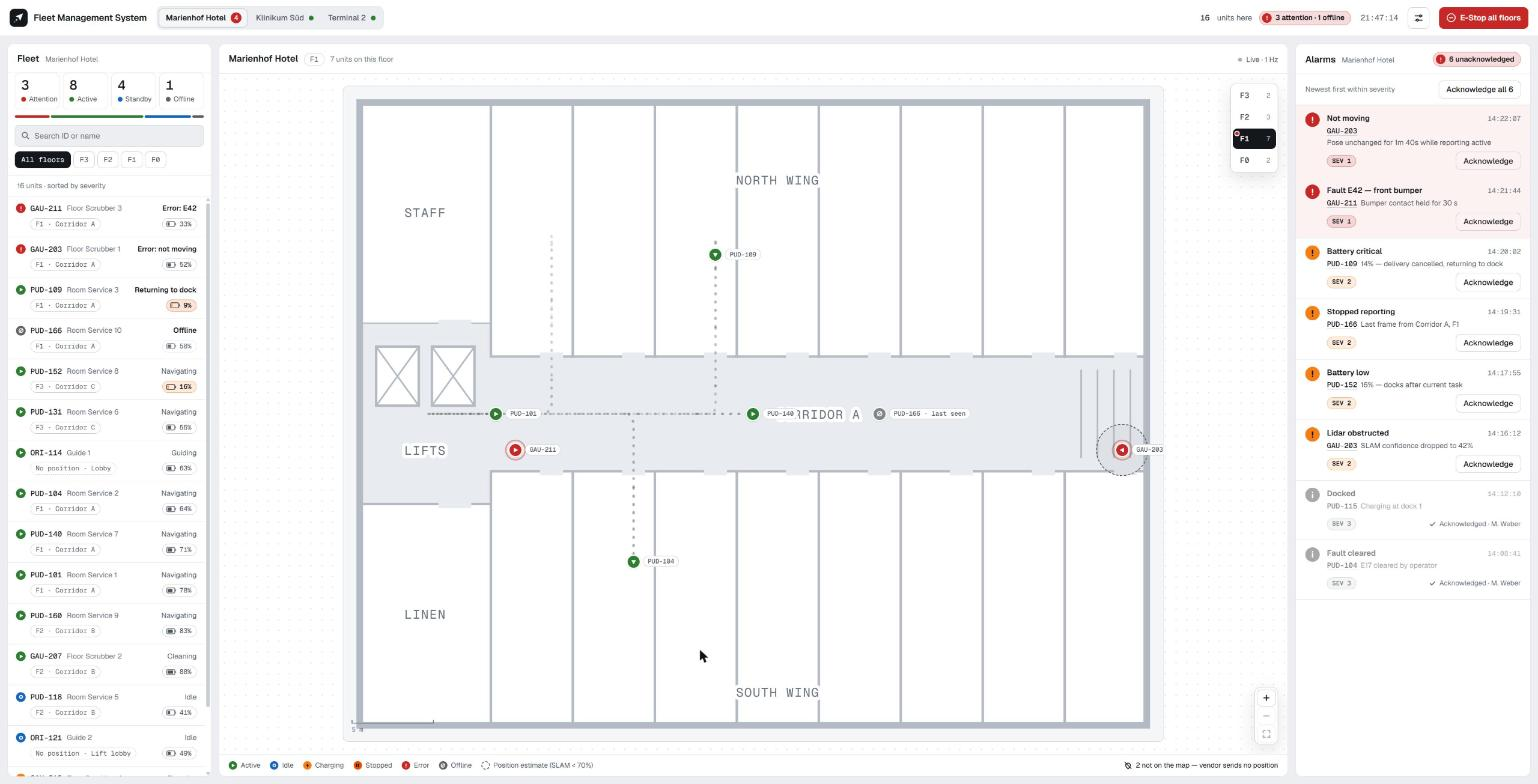
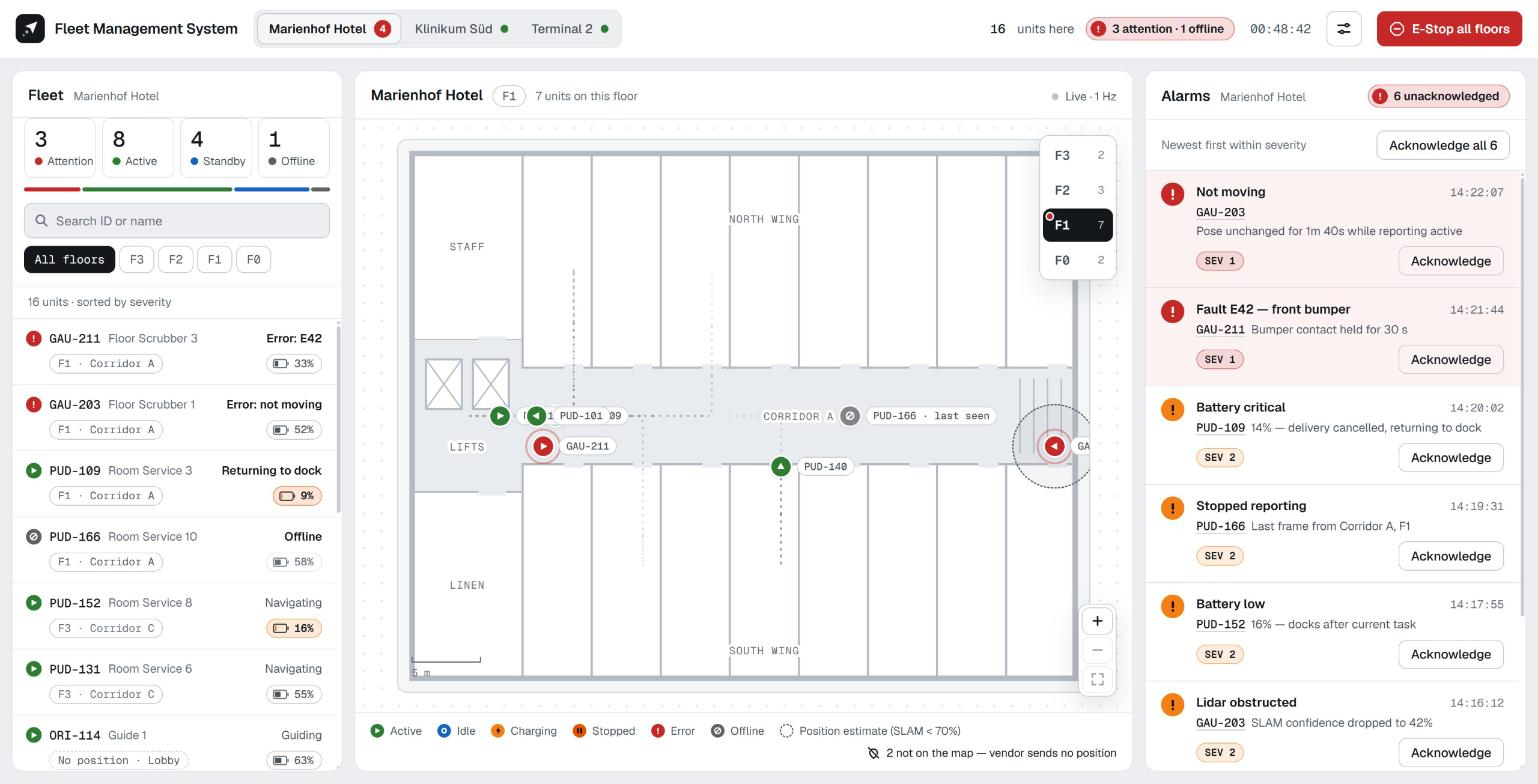
docs: record the scope decisions in the README
What was built and why, what was faked and why that was the right trade, and what
production would need. Keeps the hosted demo out of search results.

diff --git a/frontend/index.html b/frontend/index.html
@@ -4,6 +4,8 @@
     <meta charset="utf-8" />
     <meta name="viewport" content="width=device-width, initial-scale=1" />
     <meta name="color-scheme" content="dark light" />
+    <!-- The hosted demo is a portfolio link, not a page anyone should reach from a search. -->
+    <meta name="robots" content="noindex, nofollow" />
     <meta
       name="description"
       content="Real-time supervision of an autonomous robot fleet across multi-storey indoor facilities."

diff --git a/README.md b/README.md
@@ -113,6 +113,54 @@ pnpm run test:e2e   # Playwright; requires pnpm run build first
 
 100 frontend unit tests, 45 backend tests, 13 end-to-end tests.
 
+## Scope
+
+### What I built, and why
+
+All three parts: simulator, server and UI. The UI is where most of the time went, but a
+fleet view on hard-coded fixtures would not have shown the part I think is actually hard
+here, which is what happens between a telemetry frame arriving and an operator deciding to
+act. That logic needs a real server, a real transport and a real failure mode.
+
+The product question I answered: an operator supervising robots across buildings needs to
+know what needs them now, whether the screen can be trusted, what happened to one unit, and
+where it is. The three columns are those questions in priority order.
+
+### What I faked, and why that was the right trade
+
+**The robots.** `internal/sim` produces telemetry and calls the same store method a real
+ingest path would. Everything downstream runs on real code: versioning, gap detection,
+command validation, the stream, the whole UI. Faking further up would have cost the parts
+worth showing; faking lower down would have meant a broker and a second deployable for a
+seam that is one function call wide.
+
+**Alarms.** Seeded rather than derived. Deriving them means a server-side timer watching for
+readings that do *not* arrive, which is a day of work on its own and would have come out of
+the UI budget.
+
+**Floor plans.** Hand-authored vector geometry rather than the occupancy grids a real fleet
+produces from SLAM. The coordinate frame is the same, so the rendering layer swaps without
+touching the markers.
+
+**Persistence and auth.** Left out entirely. Both are well-understood plumbing that would
+have consumed time without demonstrating anything.
+
+### What I would do differently in production
+
+- **Derive alarms from telemetry** instead of seeding them. This is the one piece of
+  business logic that is currently narrated rather than computed.
+- **Replace the simulator with a real ingest path**, with batching, producer validation and
+  per-unit rate limiting.
+- **Add persistence.** A time-series store behind the existing store interface would make
+  history and audit possible.
+- **Push binary frames for pose.** At 1 Hz and this fleet size JSON is fine; at 10 to 30 Hz
+  across thousands of units it is not.
+- **Add the authorisation seam**: a principal on the handler and a site filter on stream
+  subscribe.
+- **Interaction coverage for the remaining components.** The domain and transport layers are
+  well covered; the component tests cover the panels that carry the invariants, not all of
+  them.
+
 ## Limitations
 
 Telemetry is simulated. See [docs/simulation.md](docs/simulation.md) for what is simulated
